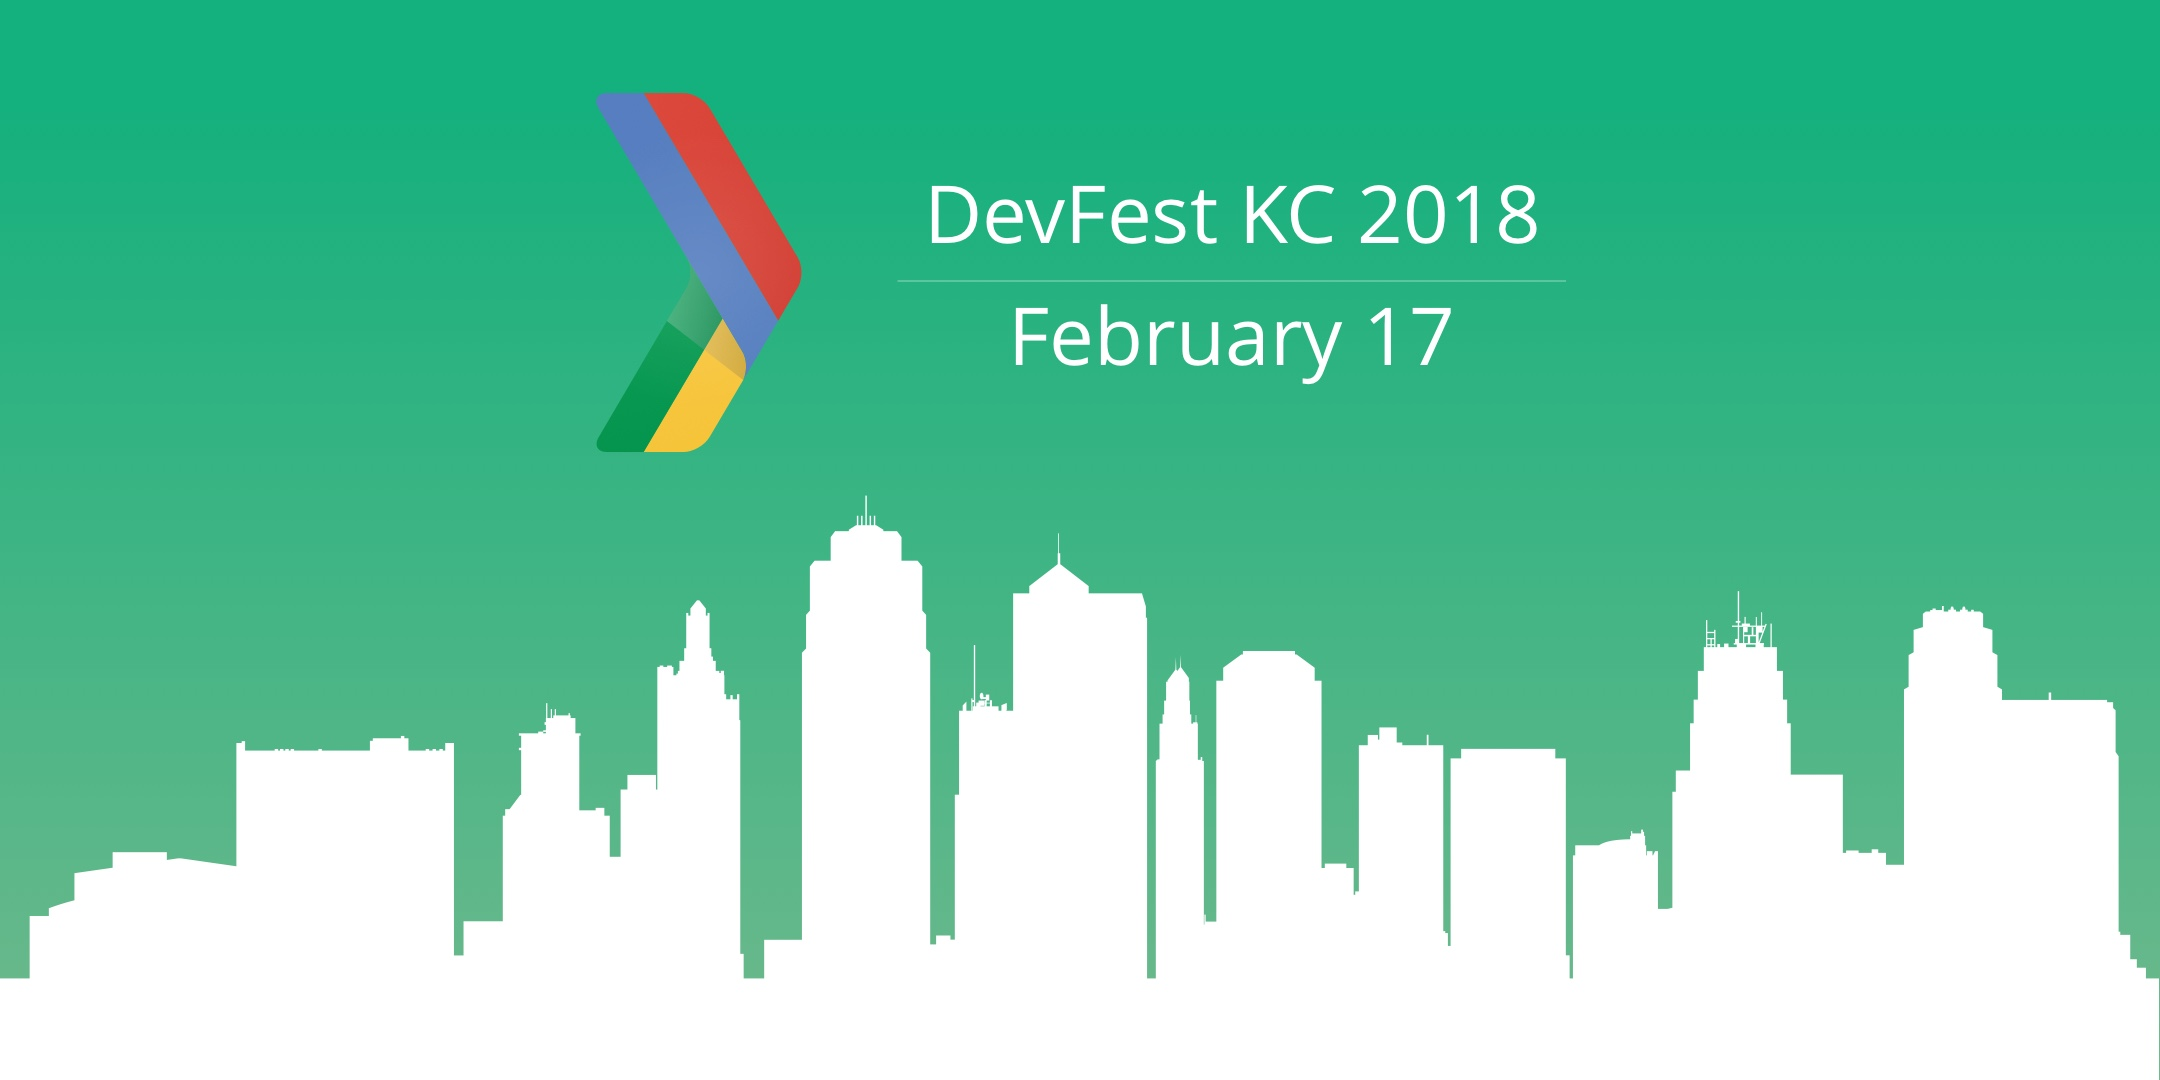
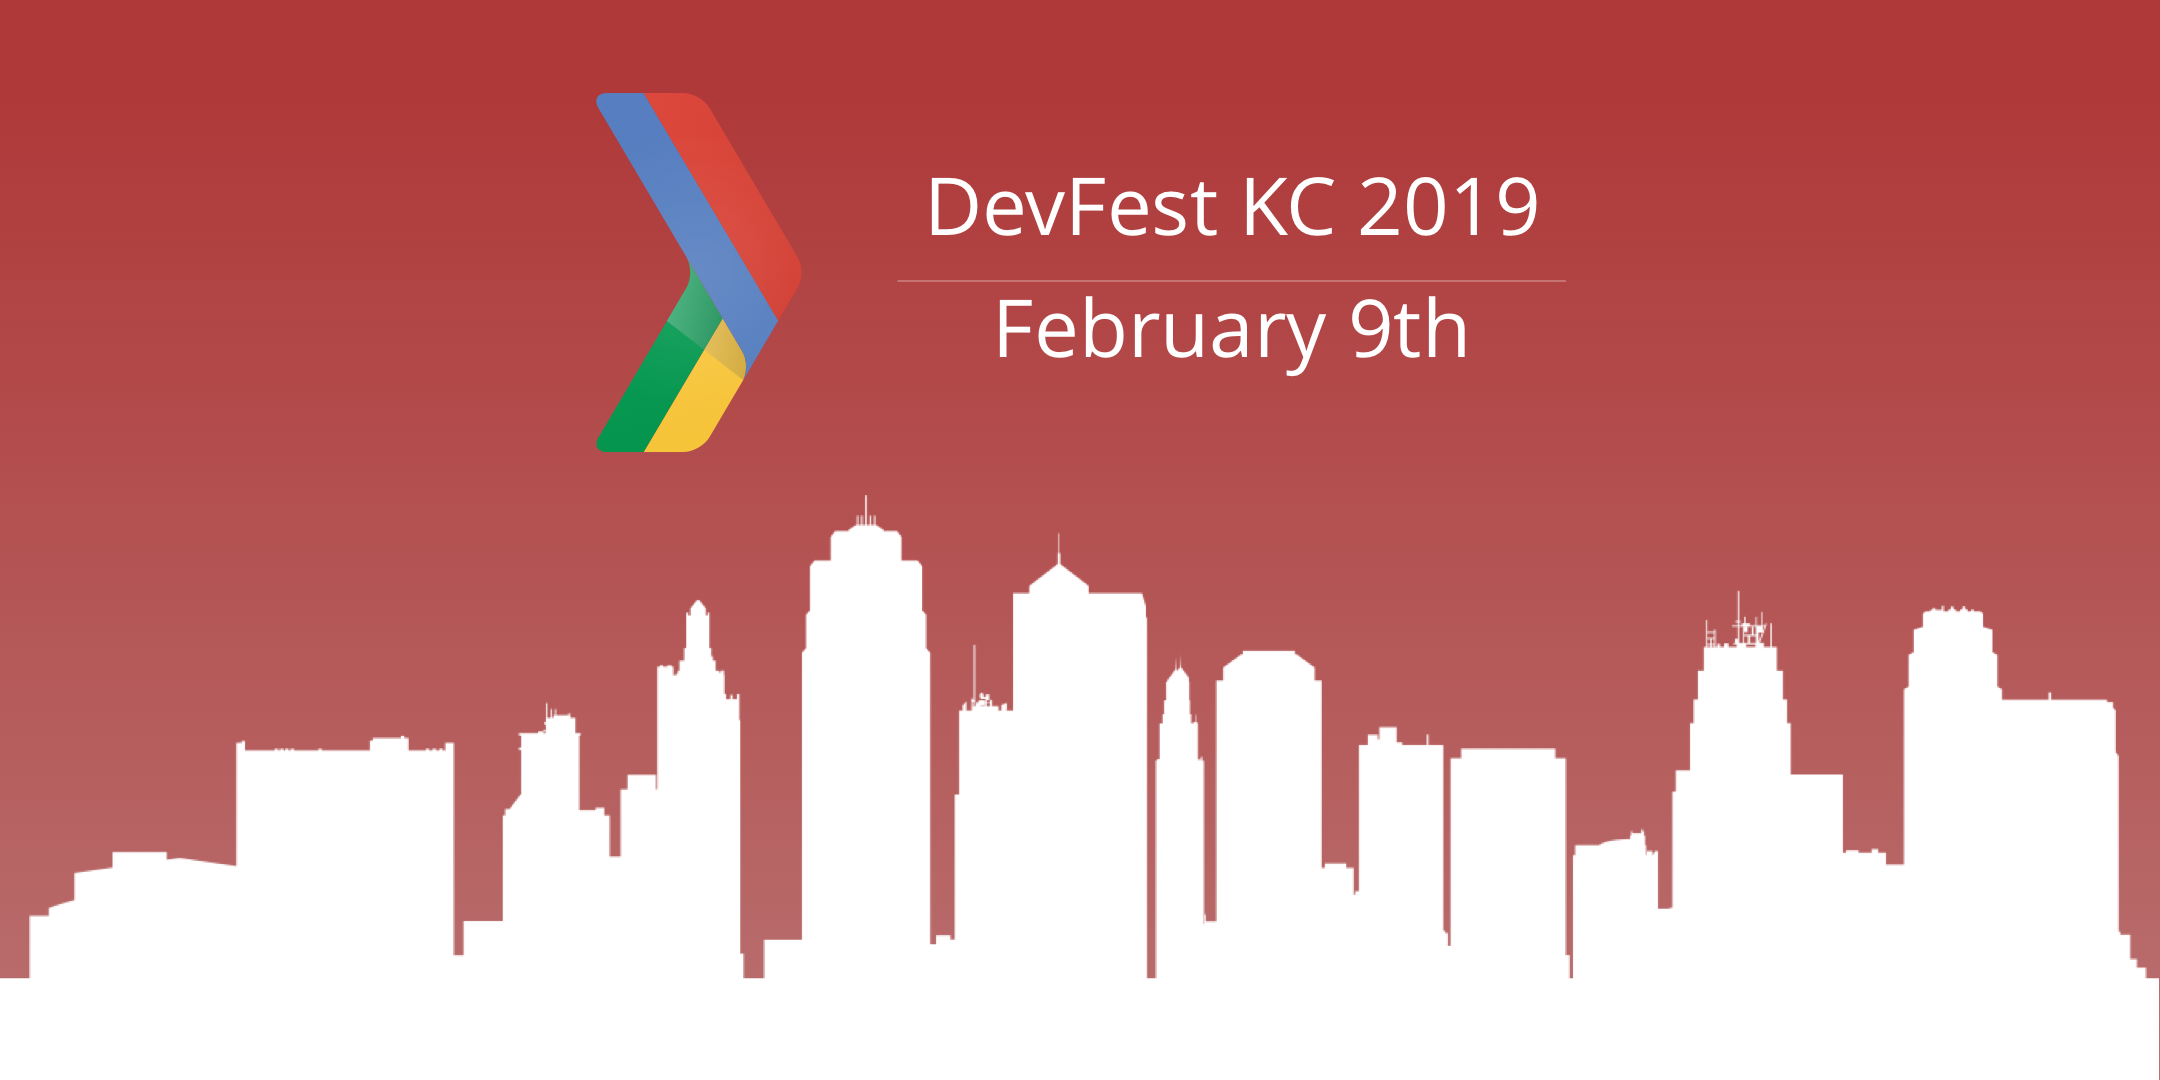
Update meta for 2019

diff --git a/src/index.html b/src/index.html
@@ -3,7 +3,7 @@
 
 <head>
   <meta charset="utf-8">
-  <title>DevFest KC 2018</title>
+  <title>DevFest KC 2019</title>
   <base href="/">
 
   <meta http-equiv="x-ua-compatible" content="ie=edge">
@@ -17,12 +17,12 @@
   <link rel="manifest" href="/manifest.json">
   <link rel="icon" type="image/x-icon" href="favicon.ico">
 
-  <meta itemprop="name" content="DevFest KC 2018">
+  <meta itemprop="name" content="DevFest KC 2019">
   <meta itemprop="description" content="A tech conference carefully crafted for you by your GDG community! All about Android, Web, and Cloud from the world experts!">
   <meta itemprop="image" content="assets/img/devfest.png">
 
-  <meta property="og:title" content="DevFest KC 2018">
-  <meta property="og:site_name" content="DevFest KC 2018">
+  <meta property="og:title" content="DevFest KC 2019">
+  <meta property="og:site_name" content="DevFest KC 2019">
   <meta property="og:type" content="website">
   <meta property="og:url" content="https://devfestkc.com/">
   <meta property="og:description" content="A tech conference carefully crafted for you by your GDG community! All about Android, Web, and Cloud from the world experts!">
@@ -32,10 +32,10 @@
 
   <meta name="twitter:card" content="summary_large_image">
   <meta name="twitter:creator" content="@devfestkc">
-  <meta name="twitter:title" content="DevFest KC 2018">
+  <meta name="twitter:title" content="DevFest KC 2019">
   <meta name="twitter:description" content="A tech conference carefully crafted for you by your GDG community! All about Android, Web, and Cloud from the world experts!">
   <meta name="twitter:image" content="https://devfestkc.com/assets/img/devfest.png">
-  <meta name="twitter:image:alt" content="DevFest KC 2018">
+  <meta name="twitter:image:alt" content="DevFest KC 2019">
   <meta name="twitter:site" content="@devfestkc">
 
   <!-- Google Tag Manager -->
